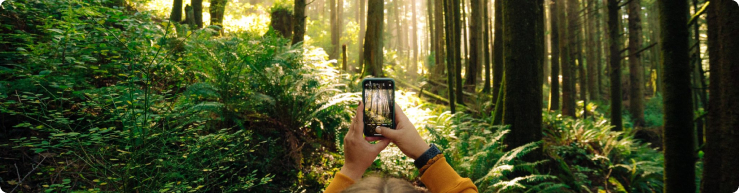
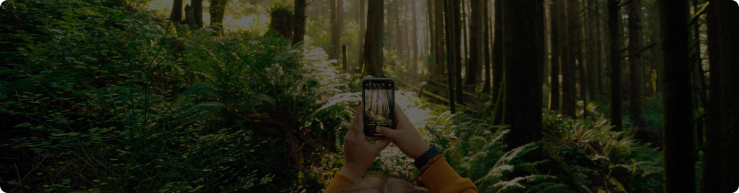
added main

diff --git a/green-code/src/components/Pages/Main/Banner/Banner.module.css b/green-code/src/components/Pages/Main/Banner/Banner.module.css
@@ -1,18 +1,29 @@
 .banner {
+    position: relative;
+    background-image: url('../../../../../public/Bg-banner.jpg');
+    background-repeat: no-repeat;
+    background-size: contain;
+    z-index: -1;
+}
+
+.inner_banner {
+    height: 100%;
+    width: 100%;
     padding: 16px;
     display: flex;
     flex-direction: column;
     width: 739px;
     height: 193px;
     gap: 16px;
-    background-image: url('../../../../../public/Bg-banner.jpg');
-    background-color: rgb(0, 0, 0, 0.6);
+    /* background-image: url('../../../../../public/Bg-banner.jpg'); */
+    /* background-color: rgb(0, 0, 0, 0.6); */
     background-repeat: no-repeat;
     /* background-size: 100% 100%; */
     background-size: contain;
     color: white;
+    z-index: 220;
 }
-
+s
 h3 {
     font-size: 24px;
     font-weight: 700;
@@ -22,4 +33,15 @@ p {
     font-size: 16px;
     font-weight: 400;
     white-space: wrap;
+}
+
+.overlay {
+    position: absolute;
+    width: calc( 100% + 16px );
+    height: calc( 100% + 16px );
+    background-color: rgb(0, 0, 0, 0.6);
+    margin-top: -16px;
+    margin-left: -16px;
+    margin-bottom: -16px;
+    border-radius: 8px;
 }

diff --git a/green-code/src/components/Pages/Main/Banner/Banner.tsx b/green-code/src/components/Pages/Main/Banner/Banner.tsx
@@ -14,9 +14,11 @@ const mainContentFindParkButton = {
 const Banner = () => {
     return (
         <div className={style.banner}>
+        <div className={style.inner_banner}>
             <h3>Внеси свой вклад в обновление данных о редких видах</h3>
             <p>Если увидели в парке краснокнижное животное или растение, покажите нам фото: это поможет экологам точнее определять ареал обитания редких видов</p>
             <Button style={mainContentFindParkButton}>Загрузить фото</Button>
+        </div>
         </div>
     )
 }

diff --git a/green-code/src/components/Pages/Main/PhotoCreature/PhotoCreature.tsx b/green-code/src/components/Pages/Main/PhotoCreature/PhotoCreature.tsx
@@ -1,7 +1,7 @@
 import React from 'react';
 import style from './PhotoCreature.module.css'
 
-const PhotoCreature = ({url, width, height, text}) => {
+const PhotoCreature = ({url, width, height, text}: {url: string, width:string, height:string, text:string}) => {
 
     return(
         <div style={{width, height, backgroundImage: url}} className={style.container}>

diff --git a/green-code/src/components/Ecoaction/Ecoaction.tsx b/green-code/src/components/Ecoaction/Ecoaction.tsx
@@ -14,7 +14,7 @@ const mainContentFindParkButton = {
 const Ecoactions = () => {
 
     return(
-    <div className="news">
+    <div className={style.ecoactions}>
         <h2>Экодвижения</h2>
         <div className={style.ecoaction}>
             <img className={style.ecoaction_img} src=".../../../public/icons/ecoactions/ActionECA.svg"/>

diff --git a/green-code/src/components/Ecoaction/Ecoaction.module.css b/green-code/src/components/Ecoaction/Ecoaction.module.css
@@ -1,3 +1,11 @@
+.ecoactions {
+    display: flex;
+    flex-direction: column;
+    gap: 24px;
+    justify-content: flex-start;
+    margin-bottom: 34px;
+}
+
 .ecoaction_img {
     font-size: 20px;
     font-weight: 700;
@@ -21,4 +29,5 @@ a {
     color: black;
     text-decoration: underline;
     font-size: 16px;
+    margin-top: -12px;
 }

diff --git a/green-code/src/components/News/News.module.css b/green-code/src/components/News/News.module.css
@@ -1,9 +1,8 @@
 .news {
     display: flex;
     flex-direction: column;
-    gap: 16px;
+    gap: 24px;
     justify-content: flex-start;
-    gap: 12px;
     margin-bottom: 34px;
 
 }
@@ -27,4 +26,5 @@ a {
     color: black;
     text-decoration: underline;
     font-size: 16px;
+    margin-top: -12px;
 }
